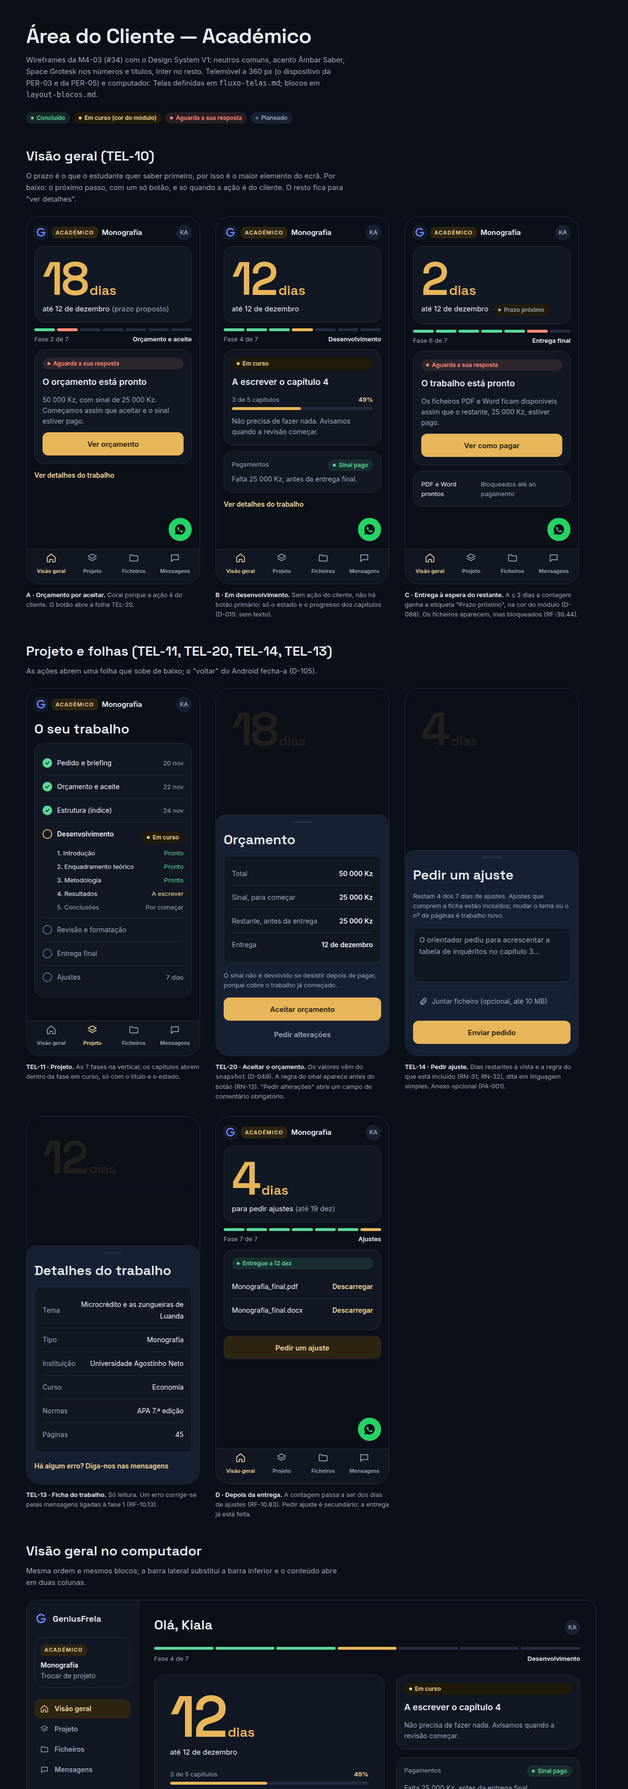
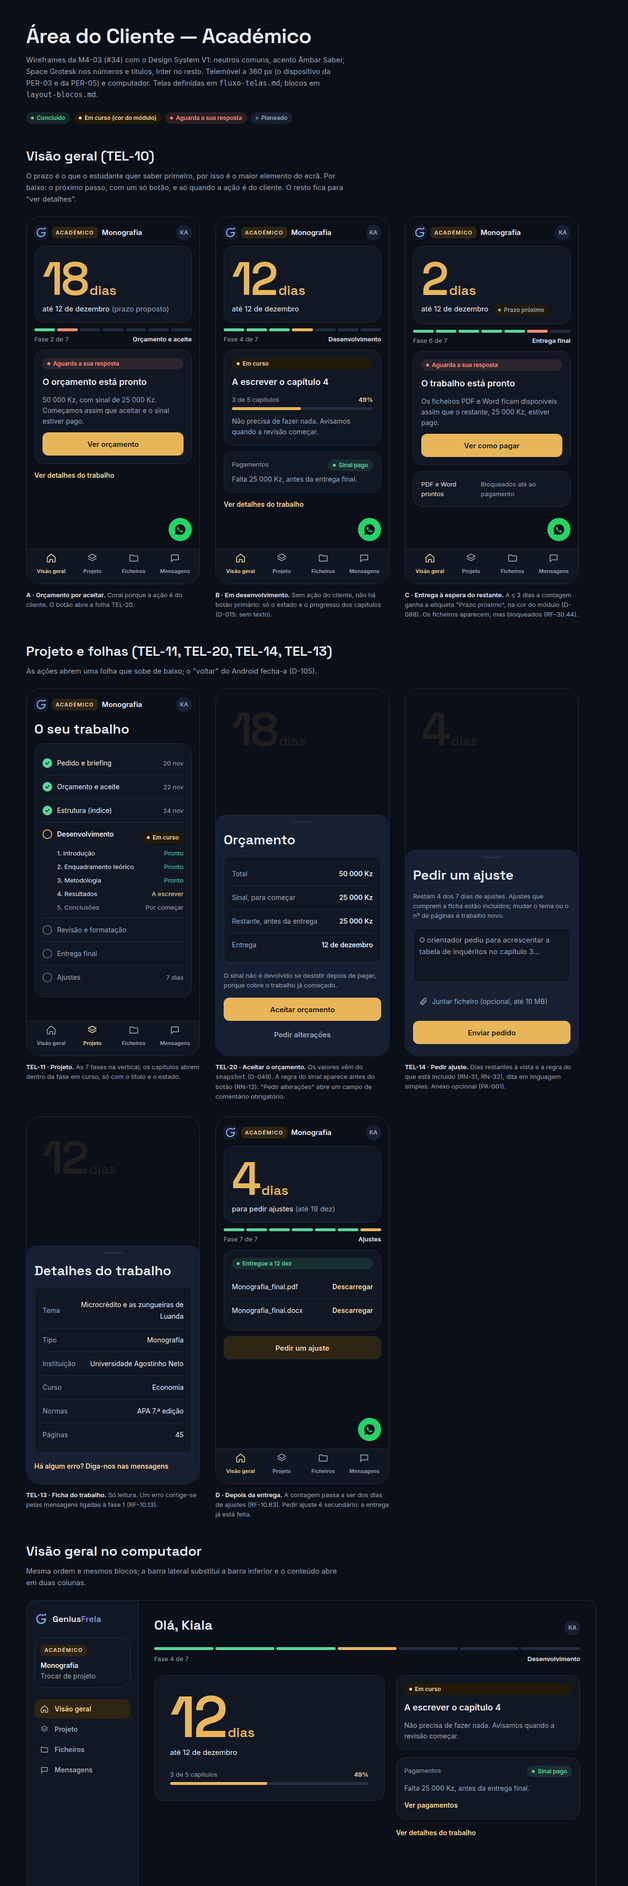
docs(ux-ui): wireframe dos blocos comuns e do link mágico (M4-05)
Entrar pelo link, link inválido, gerar link no admin, pagamentos,
ficheiros, enviar ficheiros, mensagens fora de horário e seletor de
projetos, com o Design System V1. Tokens derivados da marca (D-111).
Correção do logótipo nos três wireframes, que parecia o G da Google
(D-112); imagens refeitas.

diff --git a/docs/04-ux-ui/wireframes/blocos-comuns.html b/docs/04-ux-ui/wireframes/blocos-comuns.html
@@ -1,0 +1,124 @@
+<!doctype html>
+<html lang="pt">
+<head>
+  <meta charset="utf-8" />
+  <meta name="viewport" content="width=device-width, initial-scale=1" />
+  <title>Wireframe — Blocos comuns e link mágico · GeniusFrela</title>
+  <link rel="stylesheet" href="ds.css" />
+</head>
+<body data-service="brand">
+<svg width="0" height="0" style="position:absolute" aria-hidden="true">
+  <symbol id="i-home" viewBox="0 0 24 24" fill="none" stroke="currentColor" stroke-width="1.8" stroke-linecap="round" stroke-linejoin="round"><path d="M3 10.5 12 3l9 7.5V20a1 1 0 0 1-1 1h-5v-6H9v6H4a1 1 0 0 1-1-1z"/></symbol>
+  <symbol id="i-layers" viewBox="0 0 24 24" fill="none" stroke="currentColor" stroke-width="1.8" stroke-linecap="round" stroke-linejoin="round"><path d="m12 3 9 5-9 5-9-5z"/><path d="m3 13 9 5 9-5"/></symbol>
+  <symbol id="i-folder" viewBox="0 0 24 24" fill="none" stroke="currentColor" stroke-width="1.8" stroke-linecap="round" stroke-linejoin="round"><path d="M3 6a1 1 0 0 1 1-1h5l2 2h9a1 1 0 0 1 1 1v10a1 1 0 0 1-1 1H4a1 1 0 0 1-1-1z"/></symbol>
+  <symbol id="i-msg" viewBox="0 0 24 24" fill="none" stroke="currentColor" stroke-width="1.8" stroke-linecap="round" stroke-linejoin="round"><path d="M4 5h16v11H8l-4 4z"/></symbol>
+  <symbol id="i-check" viewBox="0 0 24 24" fill="none" stroke="currentColor" stroke-width="3" stroke-linecap="round" stroke-linejoin="round"><path d="m5 12 5 5 9-10"/></symbol>
+  <symbol id="i-clip" viewBox="0 0 24 24" fill="none" stroke="currentColor" stroke-width="1.8" stroke-linecap="round" stroke-linejoin="round"><path d="m20 11-8.5 8.5a5 5 0 0 1-7-7L13 4a3.5 3.5 0 0 1 5 5l-8.5 8.5a2 2 0 0 1-3-3L14 7"/></symbol>
+  <symbol id="i-wa" viewBox="0 0 24 24" fill="currentColor"><path d="M12 2a10 10 0 0 0-8.6 15.1L2 22l5-1.3A10 10 0 1 0 12 2zm5.3 14.1c-.2.6-1.3 1.2-1.8 1.2s-1 .3-3.3-.7a11.3 11.3 0 0 1-4.4-3.9c-.3-.5-1.1-1.5-1.1-2.9s.7-2 1-2.3a1 1 0 0 1 .7-.3h.5c.2 0 .4 0 .6.5l.8 2c.1.2.1.4 0 .6l-.4.6-.4.4c-.1.2-.3.3-.1.6a8 8 0 0 0 1.5 1.8 7 7 0 0 0 2.1 1.3c.3.1.5.1.6-.1l.9-1.1c.2-.3.4-.2.6-.1l1.9.9c.3.1.4.2.5.3a2 2 0 0 1-.1 1.2z"/></symbol>
+  <symbol id="i-g" viewBox="0 0 24 24" fill="none"><defs><linearGradient id="g" x1="0" y1="0" x2="1" y2="1"><stop offset="0" stop-color="#8B7CF6"/><stop offset=".55" stop-color="#7AA6F2"/><stop offset="1" stop-color="#5BC8E6"/></linearGradient></defs><path d="M16.2 5.6A7.6 7.6 0 1 0 19.6 12H13.2" stroke="url(#g)" stroke-width="2.4" stroke-linecap="round"/><circle cx="19.2" cy="4.2" r="1.7" fill="#5BC8E6"/></symbol>
+  <symbol id="i-lock" viewBox="0 0 24 24" fill="none" stroke="currentColor" stroke-width="1.8" stroke-linecap="round"><rect x="5" y="11" width="14" height="9" rx="2"/><path d="M8 11V8a4 4 0 0 1 8 0v3"/></symbol>
+  <symbol id="i-copy" viewBox="0 0 24 24" fill="none" stroke="currentColor" stroke-width="1.8" stroke-linecap="round"><rect x="8" y="8" width="12" height="12" rx="2"/><path d="M16 8V5a1 1 0 0 0-1-1H5a1 1 0 0 0-1 1v10a1 1 0 0 0 1 1h3"/></symbol>
+  <symbol id="i-mail" viewBox="0 0 24 24" fill="none" stroke="currentColor" stroke-width="1.8" stroke-linecap="round"><rect x="3" y="5" width="18" height="14" rx="2"/><path d="m3 7 9 6 9-6"/></symbol>
+  <symbol id="i-send" viewBox="0 0 24 24" fill="none" stroke="currentColor" stroke-width="1.8" stroke-linecap="round" stroke-linejoin="round"><path d="M21 3 10 14M21 3l-7 18-4-7-7-4z"/></symbol>
+  <symbol id="i-file" viewBox="0 0 24 24" fill="none" stroke="currentColor" stroke-width="1.8" stroke-linecap="round" stroke-linejoin="round"><path d="M14 3H6a1 1 0 0 0-1 1v16a1 1 0 0 0 1 1h12a1 1 0 0 0 1-1V8z"/><path d="M14 3v5h5"/></symbol>
+  <symbol id="i-clock" viewBox="0 0 24 24" fill="none" stroke="currentColor" stroke-width="1.8" stroke-linecap="round"><circle cx="12" cy="12" r="9"/><path d="M12 7v5l3 2"/></symbol>
+</svg>
+
+<main class="doc">
+  <h1>Blocos comuns e link mágico</h1>
+  <p>Wireframes da M4-05 (#36) com o Design System V1. A entrada pelo link e o admin usam a marca (violeta), porque ainda não há serviço; os blocos comuns mudam de cor com o serviço: aqui aparecem em Âmbar (Académico) e Lilás (Design). Telas em <code>fluxo-telas.md</code>.</p>
+
+  <h2>Entrar pelo link mágico (TEL-03, TEL-04)</h2>
+  <p>Abrir o link não gasta nada: só o botão "Entrar" usa o link (D-068). Assim, a pré-visualização do WhatsApp não o estraga.</p>
+  <div class="row">
+    <figure class="shot"><div class="phone" data-service="brand"><div class="scroll" style="justify-content:space-between;padding-bottom:var(--s5)">
+<div style="display:flex;flex-direction:column;align-items:center;gap:12px;margin-top:72px"><svg width="64" height="64"><use href="#i-g"/></svg><b style="font:600 22px/1 var(--font-display);letter-spacing:-.01em">Genius<span class="wm-frela">Frela</span></b></div>
+<div class="stack" style="gap:var(--s4)">
+<h3 style="font:600 28px/36px var(--font-display)">Olá, Teresa</h3>
+<p class="muted">Este link abre o seu projeto <b style="color:var(--n-ink)">Convite do casamento</b>.</p>
+<a class="btn primary block" href="#">Entrar no meu projeto</a>
+<p class="small muted" style="text-align:center">O link funciona uma vez e é válido até amanhã às 14:30.</p>
+</div></div></div><figcaption><b>TEL-03 · Entrar.</b> Logótipo vertical, o nome do cliente e do projeto, um só botão. A validade fica dita em linguagem simples.</figcaption></figure>
+    <figure class="shot"><div class="phone" data-service="brand"><div class="scroll" style="justify-content:space-between;padding-bottom:var(--s5)">
+<div style="display:flex;flex-direction:column;align-items:center;gap:12px;margin-top:72px"><svg width="64" height="64"><use href="#i-g"/></svg><b style="font:600 22px/1 var(--font-display);letter-spacing:-.01em">Genius<span class="wm-frela">Frela</span></b></div>
+<div class="stack" style="gap:var(--s4)">
+<h3 style="font:600 28px/36px var(--font-display)">Este link já não é válido</h3>
+<p class="muted">Cada link funciona uma vez e dura 24 horas. Peça um novo e enviamos já.</p>
+<a class="btn block" href="#" style="background:var(--whatsapp);color:var(--n-night)"><svg width="18" height="18" style=""><use href="#i-wa"/></svg>Pedir um novo link</a>
+<a class="btn quiet" href="#" style="align-self:center">Entrar com email e senha</a>
+</div></div></div><figcaption><b>TEL-04 · Link inválido.</b> Diz porquê e dá a saída mais rápida: pedir outro no WhatsApp (RF-30.51). A senha fica como alternativa (RF-30.55).</figcaption></figure>
+    <figure class="shot"><div class="phone" data-service="brand"><div class="scroll" style="opacity:.3"><div class="card" style="height:220px"></div><div class="card" style="height:160px"></div></div>
+<div class="scrim"></div>
+<div class="sheet" role="dialog" aria-label="Gerar link"><span class="handle"></span><h3>Link para Teresa</h3>
+<p class="small muted">Abre o projeto <b style="color:var(--n-ink)">Convite do casamento</b>. Funciona uma vez, até amanhã às 14:30. O link anterior deixa de funcionar.</p>
+<div class="sub small" style="font-family:ui-monospace,monospace;color:var(--n-ink-2);overflow:hidden;white-space:nowrap;text-overflow:ellipsis">joao-pereira.dev/cliente/entrar?t=8f3c…a91e</div>
+<a class="btn block" href="#" style="background:var(--whatsapp);color:var(--n-night)"><svg width="18" height="18" style=""><use href="#i-wa"/></svg>Abrir no WhatsApp</a>
+<div style="display:flex;gap:var(--s2)"><a class="btn secondary" href="#" style="flex:1"><svg width="18" height="18" style=""><use href="#i-copy"/></svg>Copiar</a><a class="btn secondary" href="#" style="flex:1"><svg width="18" height="18" style=""><use href="#i-mail"/></svg>Email</a></div>
+<p class="small muted" style="text-align:center">1 de 5 links nesta hora</p></div></div><figcaption><b>TEL-57 · Admin, gerar link.</b> WhatsApp em primeiro, porque é o canal principal (D-011); Copiar e Email ao lado. Avisa que o link anterior deixa de funcionar e mostra o limite de 5 por hora.</figcaption></figure>
+  </div>
+
+  <h2>Pagamentos, ficheiros e envio (TEL-21, TEL-22, TEL-23)</h2>
+  <p>O cliente vê o que pagou e o que falta, os ficheiros por grupo e o progresso de cada envio. Nada se paga nem se descarrega sem regras.</p>
+  <div class="row">
+    <figure class="shot"><div class="phone" data-service="academic"><div class="scroll" style="opacity:.35"><div class="topbar"><div class="project"><svg class="logo" width="28" height="28"><use href="#i-g"/></svg><span class="chip-service">Académico</span><span class="project-name">Monografia</span></div><span class="avatar">KA</span></div><div class="card countdown"><div><span class="num">2</span><span class="unit">dias</span></div></div></div>
+<div class="scrim"></div>
+<div class="sheet" role="dialog" aria-label="Pagamentos"><span class="handle"></span><h3>Pagamentos</h3>
+<div class="split"><div><p class="small muted">Já pagou</p><b style="font:600 28px/36px var(--font-display)">25 000 Kz</b></div><div style="text-align:right"><p class="small muted">Falta</p><b style="font:600 28px/36px var(--font-display);color:var(--m-primary)">25 000 Kz</b></div></div>
+<div class="bar"><i style="width:50%"></i></div>
+<div class="sub list">
+<div><span>Sinal<br/><span class="small muted">pago a 22 nov</span></span><span class="state done">Pago</span></div>
+<div><span>Restante<br/><span class="small muted">até 10 dez</span></span><span class="state action">Por pagar</span></div>
+</div>
+<p class="small muted">O pagamento é feito fora do portal. Envie o comprovativo pelo WhatsApp e marcamos como pago assim que confirmarmos.</p>
+<a class="btn primary block" href="#">Enviar comprovativo no WhatsApp</a></div></div><figcaption><b>TEL-21 · Pagamentos.</b> Só leitura (D-009): já pagou, falta, e o estado de cada pagamento. O próximo passo é enviar o comprovativo pelo WhatsApp.</figcaption></figure>
+    <figure class="shot"><div class="phone" data-service="design"><div class="scroll"><div class="topbar"><div class="project"><svg class="logo" width="28" height="28"><use href="#i-g"/></svg><span class="chip-service">Design</span><span class="project-name">Convite do casamento</span></div><span class="avatar">TE</span></div>
+<h3 style="font:600 28px/36px var(--font-display);margin-top:4px">Ficheiros</h3>
+<div class="card stack"><div class="split"><b>Provas</b><span class="small muted">2 versões</span></div>
+<div class="list"><div><span style="display:flex;gap:10px;align-items:center"><svg width="18" height="18" style=""><use href="#i-file"/></svg>V2 · prova.jpg</span><span class="state now">Atual</span></div>
+<div><span style="display:flex;gap:10px;align-items:center" class="muted"><svg width="18" height="18" style=""><use href="#i-file"/></svg>V1 · prova.jpg</span><span class="small muted">25 nov</span></div></div></div>
+<div class="card stack"><div class="split"><b>Os seus ficheiros</b><a class="link" href="#">Enviar</a></div>
+<div class="list"><div><span style="display:flex;gap:10px;align-items:center"><svg width="18" height="18" style=""><use href="#i-file"/></svg>fotos_noivos.jpg</span><span class="small muted">3,2 MB</span></div>
+<div><span style="display:flex;gap:10px;align-items:center"><svg width="18" height="18" style=""><use href="#i-file"/></svg>textos_convite.docx</span><span class="small muted">24 KB</span></div></div></div>
+<div class="card stack"><b>Ficheiros finais</b>
+<div class="notice"><svg width="18" height="18" style="flex:none;margin-top:1px"><use href="#i-lock"/></svg><span>Ficam disponíveis quando a peça estiver pronta para levantar.</span></div></div>
+</div><nav class="bottomnav" aria-label="Área do cliente"><a href="#"><svg><use href="#i-home"/></svg>Visão geral</a><a href="#"><svg><use href="#i-layers"/></svg>Projeto</a><a href="#" aria-current="page"><svg><use href="#i-folder"/></svg>Ficheiros</a><a href="#"><svg><use href="#i-msg"/></svg>Mensagens</a></nav></div><figcaption><b>TEL-22 · Ficheiros.</b> Três grupos: provas (com a atual marcada), os ficheiros do cliente e os finais, com o cadeado e o motivo (RF-30.44).</figcaption></figure>
+    <figure class="shot"><div class="phone" data-service="academic"><div class="scroll" style="opacity:.35"><div class="topbar"><div class="project"><svg class="logo" width="28" height="28"><use href="#i-g"/></svg><span class="chip-service">Académico</span><span class="project-name">Monografia</span></div><span class="avatar">KA</span></div></div>
+<div class="scrim"></div>
+<div class="sheet" role="dialog" aria-label="Enviar ficheiros"><span class="handle"></span><h3>Enviar ficheiros</h3>
+<p class="small muted">Enunciado, normas da instituição ou bibliografia. Imagens, PDF ou Word, até 10 MB cada.</p>
+<div class="stack" style="gap:var(--s3)">
+<div class="sub"><div class="split small"><span>normas_UAN.pdf</span><span class="muted">1,1 MB</span></div><div class="prog"><i style="width:100%;background:var(--state-done)"></i></div></div>
+<div class="sub"><div class="split small"><span>enunciado.docx</span><span class="muted">64%</span></div><div class="prog"><i style="width:64%"></i></div></div>
+<div class="sub" style="border-color:rgba(255,138,122,.45)"><div class="split small"><span>tese_completa.pdf</span><span class="muted">14 MB</span></div><p class="err" style="margin-top:4px">Passa dos 10 MB. Envie uma versão mais leve ou só os capítulos que precisamos.</p></div>
+</div>
+<div class="attach"><svg width="18" height="18" style=""><use href="#i-clip"/></svg>Escolher mais ficheiros</div>
+<p class="small muted" style="text-align:center">3 de 10 ficheiros nesta fase</p></div></div><figcaption><b>TEL-23 · Enviar ficheiros.</b> Progresso por ficheiro e um erro claro, com o que fazer, quando passa dos 10 MB (RNF-105, RF-30.42). Contador de 10 por fase.</figcaption></figure>
+  </div>
+
+  <h2>Mensagens e projetos (TEL-24, TEL-05)</h2>
+  <p>As mensagens aceitam-se a qualquer hora; fora do horário, o cliente sabe quando terá resposta.</p>
+  <div class="row">
+    <figure class="shot"><div class="phone" data-service="design"><div class="scroll" style="padding-bottom:150px"><div class="topbar"><div class="project"><svg class="logo" width="28" height="28"><use href="#i-g"/></svg><span class="chip-service">Design</span><span class="project-name">Convite do casamento</span></div><span class="avatar">TE</span></div>
+<h3 style="font:600 28px/36px var(--font-display);margin-top:4px">Mensagens</h3>
+<span class="small muted" style="align-self:center">Ontem</span>
+<div class="bubble them">A V2 já está no portal, com os nomes maiores e as folhas em dourado.</div>
+<span class="small muted" style="align-self:center">Hoje, 22:10</span>
+<div class="bubble me">Obrigada! A data tem de ser domingo, 14.</div>
+<div class="notice"><svg width="18" height="18" style="flex:none;margin-top:1px"><use href="#i-clock"/></svg><span>Entraremos em contacto assim que o horário de abertura estiver disponível. Atendemos todos os dias, das 08h às 20h.</span></div>
+</div>
+<div style="position:absolute;left:0;right:0;bottom:72px;padding:var(--s3) var(--s4);background:var(--n-night);border-top:1px solid var(--n-border);display:flex;gap:var(--s2)">
+<div class="field" style="min-height:48px;padding:12px">Escreva uma mensagem</div>
+<a class="btn primary" href="#" aria-label="Enviar" style="width:48px;padding:0;flex:none"><svg width="20" height="20" style=""><use href="#i-send"/></svg></a></div>
+<nav class="bottomnav" aria-label="Área do cliente"><a href="#"><svg><use href="#i-home"/></svg>Visão geral</a><a href="#"><svg><use href="#i-layers"/></svg>Projeto</a><a href="#"><svg><use href="#i-folder"/></svg>Ficheiros</a><a href="#" aria-current="page"><svg><use href="#i-msg"/></svg>Mensagens</a></nav></div><figcaption><b>TEL-24 · Mensagens fora de horário.</b> O aviso usa o texto da RN-52 e o horário (D-036). Não bloqueia o envio.</figcaption></figure>
+    <figure class="shot"><div class="phone" data-service="design"><div class="scroll" style="opacity:.35"><div class="topbar"><div class="project"><svg class="logo" width="28" height="28"><use href="#i-g"/></svg><span class="chip-service">Design</span><span class="project-name">Convite do casamento</span></div><span class="avatar">TE</span></div></div>
+<div class="scrim"></div>
+<div class="sheet" role="dialog" aria-label="Os seus projetos"><span class="handle"></span><h3>Os seus projetos</h3>
+<div class="stack" style="gap:var(--s2)">
+<a href="#" class="sub split" data-service="design" style="text-decoration:none;color:inherit;border-color:var(--m-primary)"><span class="stack" style="gap:4px"><span class="chip-service" style="align-self:flex-start">Design</span><b>Convite do casamento</b><span class="small muted">Revisões</span></span><span class="state action">Ação sua</span></a>
+<a href="#" class="sub split" data-service="design" style="text-decoration:none;color:inherit"><span class="stack" style="gap:4px"><span class="chip-service" style="align-self:flex-start">Design</span><b>Lona da festa</b><span class="small muted">Produção</span></span><span class="state now">Em curso</span></a>
+<a href="#" class="sub split" data-service="academic" style="text-decoration:none;color:inherit"><span class="stack" style="gap:4px"><span class="chip-service" style="align-self:flex-start">Académico</span><b>Relatório de estágio</b><span class="small muted">Desenvolvimento</span></span><span class="state now">Em curso</span></a>
+</div></div></div><figcaption><b>TEL-05 · Os seus projetos.</b> Cada projeto com a cor do seu serviço e o estado: o cliente vê logo onde é a sua vez (RF-30.13, D-019).</figcaption></figure>
+  </div>
+</main>
+</body>
+</html>

diff --git a/docs/04-ux-ui/wireframes/design.html b/docs/04-ux-ui/wireframes/design.html
@@ -24,7 +24,7 @@
   <symbol id="i-check" viewBox="0 0 24 24" fill="none" stroke="currentColor" stroke-width="3" stroke-linecap="round" stroke-linejoin="round"><path d="m5 12 5 5 9-10"/></symbol>
   <symbol id="i-clip" viewBox="0 0 24 24" fill="none" stroke="currentColor" stroke-width="1.8" stroke-linecap="round" stroke-linejoin="round"><path d="m20 11-8.5 8.5a5 5 0 0 1-7-7L13 4a3.5 3.5 0 0 1 5 5l-8.5 8.5a2 2 0 0 1-3-3L14 7"/></symbol>
   <symbol id="i-wa" viewBox="0 0 24 24" fill="currentColor"><path d="M12 2a10 10 0 0 0-8.6 15.1L2 22l5-1.3A10 10 0 1 0 12 2zm5.3 14.1c-.2.6-1.3 1.2-1.8 1.2s-1 .3-3.3-.7a11.3 11.3 0 0 1-4.4-3.9c-.3-.5-1.1-1.5-1.1-2.9s.7-2 1-2.3a1 1 0 0 1 .7-.3h.5c.2 0 .4 0 .6.5l.8 2c.1.2.1.4 0 .6l-.4.6-.4.4c-.1.2-.3.3-.1.6a8 8 0 0 0 1.5 1.8 7 7 0 0 0 2.1 1.3c.3.1.5.1.6-.1l.9-1.1c.2-.3.4-.2.6-.1l1.9.9c.3.1.4.2.5.3a2 2 0 0 1-.1 1.2z"/></symbol>
-  <symbol id="i-g" viewBox="0 0 24 24" fill="none" stroke="url(#g)" stroke-width="2.6" stroke-linecap="round"><defs><linearGradient id="g" x1="0" y1="0" x2="1" y2="1"><stop offset="0" stop-color="#8B7CF6"/><stop offset="1" stop-color="#4C8DFF"/></linearGradient></defs><path d="M17 6.5A7 7 0 1 0 19 12h-6"/></symbol>
+  <symbol id="i-g" viewBox="0 0 24 24" fill="none"><defs><linearGradient id="g" x1="0" y1="0" x2="1" y2="1"><stop offset="0" stop-color="#8B7CF6"/><stop offset=".55" stop-color="#7AA6F2"/><stop offset="1" stop-color="#5BC8E6"/></linearGradient></defs><path d="M16.2 5.6A7.6 7.6 0 1 0 19.6 12H13.2" stroke="url(#g)" stroke-width="2.4" stroke-linecap="round"/><circle cx="19.2" cy="4.2" r="1.7" fill="#5BC8E6"/></symbol>
 </svg>
 
 <svg width="0" height="0" style="position:absolute" aria-hidden="true">
@@ -161,7 +161,7 @@
   <h2>Visão geral no computador</h2>
   <p>A prova à esquerda, em grande; à direita, a decisão, as outras versões e os pagamentos.</p>
   <div class="desktop"><aside class="side">
-<div style="display:flex;align-items:center;gap:10px"><svg width="28" height="28"><use href="#i-g"/></svg><b style="font:600 18px/1 var(--font-display)">GeniusFrela</b></div>
+<div style="display:flex;align-items:center;gap:10px"><svg width="28" height="28"><use href="#i-g"/></svg><b style="font:600 18px/1 var(--font-display)">Genius<span class="wm-frela">Frela</span></b></div>
 <div class="card" style="padding:12px"><span class="chip-service">Design</span><p style="color:var(--n-ink);font-weight:600;margin-top:8px">Convite do casamento</p><p class="small muted">Trocar de projeto</p></div>
 <nav aria-label="Área do cliente"><a href="#" aria-current="page"><svg><use href="#i-home"/></svg>Visão geral</a><a href="#"><svg><use href="#i-layers"/></svg>Projeto</a><a href="#"><svg><use href="#i-folder"/></svg>Ficheiros</a><a href="#"><svg><use href="#i-msg"/></svg>Mensagens</a></nav>
 <a class="btn whatsapp" href="#" style="margin-top:auto"><svg width="18" height="18"><use href="#i-wa"/></svg>Falar no WhatsApp</a></aside>

diff --git a/docs/04-ux-ui/wireframes/academico.html b/docs/04-ux-ui/wireframes/academico.html
@@ -15,7 +15,7 @@
   <symbol id="i-check" viewBox="0 0 24 24" fill="none" stroke="currentColor" stroke-width="3" stroke-linecap="round" stroke-linejoin="round"><path d="m5 12 5 5 9-10"/></symbol>
   <symbol id="i-clip" viewBox="0 0 24 24" fill="none" stroke="currentColor" stroke-width="1.8" stroke-linecap="round" stroke-linejoin="round"><path d="m20 11-8.5 8.5a5 5 0 0 1-7-7L13 4a3.5 3.5 0 0 1 5 5l-8.5 8.5a2 2 0 0 1-3-3L14 7"/></symbol>
   <symbol id="i-wa" viewBox="0 0 24 24" fill="currentColor"><path d="M12 2a10 10 0 0 0-8.6 15.1L2 22l5-1.3A10 10 0 1 0 12 2zm5.3 14.1c-.2.6-1.3 1.2-1.8 1.2s-1 .3-3.3-.7a11.3 11.3 0 0 1-4.4-3.9c-.3-.5-1.1-1.5-1.1-2.9s.7-2 1-2.3a1 1 0 0 1 .7-.3h.5c.2 0 .4 0 .6.5l.8 2c.1.2.1.4 0 .6l-.4.6-.4.4c-.1.2-.3.3-.1.6a8 8 0 0 0 1.5 1.8 7 7 0 0 0 2.1 1.3c.3.1.5.1.6-.1l.9-1.1c.2-.3.4-.2.6-.1l1.9.9c.3.1.4.2.5.3a2 2 0 0 1-.1 1.2z"/></symbol>
-  <symbol id="i-g" viewBox="0 0 24 24" fill="none" stroke="url(#g)" stroke-width="2.6" stroke-linecap="round"><defs><linearGradient id="g" x1="0" y1="0" x2="1" y2="1"><stop offset="0" stop-color="#8B7CF6"/><stop offset="1" stop-color="#4C8DFF"/></linearGradient></defs><path d="M17 6.5A7 7 0 1 0 19 12h-6"/></symbol>
+  <symbol id="i-g" viewBox="0 0 24 24" fill="none"><defs><linearGradient id="g" x1="0" y1="0" x2="1" y2="1"><stop offset="0" stop-color="#8B7CF6"/><stop offset=".55" stop-color="#7AA6F2"/><stop offset="1" stop-color="#5BC8E6"/></linearGradient></defs><path d="M16.2 5.6A7.6 7.6 0 1 0 19.6 12H13.2" stroke="url(#g)" stroke-width="2.4" stroke-linecap="round"/><circle cx="19.2" cy="4.2" r="1.7" fill="#5BC8E6"/></symbol>
 </svg>
 
 <main class="doc">
@@ -304,7 +304,7 @@
   <p>Mesma ordem e mesmos blocos; a barra lateral substitui a barra inferior e o conteúdo abre em duas colunas.</p>
   <div class="desktop">
     <aside class="side">
-      <div style="display:flex;align-items:center;gap:10px"><svg width="28" height="28"><use href="#i-g"/></svg><b style="font:600 18px/1 var(--font-display)">GeniusFrela</b></div>
+      <div style="display:flex;align-items:center;gap:10px"><svg width="28" height="28"><use href="#i-g"/></svg><b style="font:600 18px/1 var(--font-display)">Genius<span class="wm-frela">Frela</span></b></div>
       <div class="card" style="padding:12px">
         <span class="chip-service">Académico</span>
         <p style="color:var(--n-ink);font-weight:600;margin-top:8px">Monografia</p>

diff --git a/docs/04-ux-ui/wireframes/ds.css b/docs/04-ux-ui/wireframes/ds.css
@@ -30,6 +30,8 @@
 [data-service="development"] { --m-primary: #4c8dff; --m-soft: #9cc0ff; --m-tint: #13213d; --m-on: #0a1530; }
 [data-service="design"]      { --m-primary: #a78bfa; --m-soft: #d2c4ff; --m-tint: #231b3f; --m-on: #170f2e; }
 [data-service="academic"]    { --m-primary: #e8b65a; --m-soft: #f5d79a; --m-tint: #2e2412; --m-on: #221a08; }
+/* marca: login, link mágico, admin (D-091). Só a primária vem do DS V1; suave/tinta/sobre derivados (D-111, confirmar no G2) */
+[data-service="brand"]       { --m-primary: #8b7cf6; --m-soft: #c9c2fb; --m-tint: #1c1838; --m-on: #0b0f17; }
 
 * { box-sizing: border-box; margin: 0; }
 body {
@@ -160,6 +162,15 @@ body {
 .check .box.on { background: var(--m-primary); border-color: var(--m-primary); }
 
 /* ---------- computador ---------- */
+/* logótipo: "Frela" no gradiente da marca (ficha R2) */
+.wm-frela { background: linear-gradient(90deg, #8b7cf6, #7aa6f2 55%, #5bc8e6); -webkit-background-clip: text; background-clip: text; color: transparent; }
+.err { color: var(--state-action); font-size: 13px; line-height: 20px; }
+.prog { height: 4px; border-radius: var(--r-pill); background: var(--n-border); overflow: hidden; margin-top: 6px; }
+.prog i { display: block; height: 100%; background: var(--m-primary); }
+.bubble { max-width: 82%; padding: var(--s3) var(--s4); border-radius: var(--r-lg); font-size: 14px; line-height: 22px; }
+.bubble.me { align-self: flex-end; background: var(--m-tint); color: var(--n-ink); border-bottom-right-radius: var(--r-sm); }
+.bubble.them { align-self: flex-start; background: var(--n-surface); border: 1px solid var(--n-border); border-bottom-left-radius: var(--r-sm); }
+.notice { display: flex; gap: var(--s3); align-items: flex-start; padding: var(--s3) var(--s4); border-radius: var(--r-md); background: var(--n-surface); border: 1px solid var(--n-border); font-size: 13px; line-height: 20px; color: var(--n-ink-2); }
 .desktop { width: 100%; max-width: 1180px; min-height: 720px; display: grid; grid-template-columns: 232px 1fr; border: 1px solid var(--n-border); border-radius: var(--r-lg); overflow: hidden; background: var(--n-night); }
 .side { background: var(--n-surface); border-right: 1px solid var(--n-border); padding: var(--s5) var(--s4); display: flex; flex-direction: column; gap: var(--s5); }
 .side nav { display: flex; flex-direction: column; gap: 2px; }

diff --git a/docs/04-ux-ui/wireframes/blocos-comuns.md b/docs/04-ux-ui/wireframes/blocos-comuns.md
@@ -1,0 +1,33 @@
+# Wireframe — Blocos comuns e link mágico
+> Projeto: GeniusFrela — Área do Cliente multi-serviço · Tarefa: [M4-05] · Issue: #36 · Versão: 1.0 · Data: 2026-11-24
+> Depende de: **Design System V1** (ADR-004), [`ds.css`](ds.css), `fluxo-telas.md` (TEL-03, 04, 05, 21, 22, 23, 24, 57), ADR-002, ADR-003 · Decisões usadas: D-009, D-011, D-019, D-023, D-032, D-036, D-068, D-091, D-111, D-112
+
+**Abrir:** [`blocos-comuns.html`](blocos-comuns.html). **Imagem:** [`img/blocos-comuns.png`](img/blocos-comuns.png).
+
+## O que está desenhado
+| TEL | Ecrã | Cor |
+|---|---|---|
+| TEL-03 | Entrar pelo link: logótipo vertical, "Olá, Teresa", projeto, **Entrar no meu projeto**, validade | marca |
+| TEL-04 | Link inválido: porquê + **Pedir um novo link** (WhatsApp) + entrar com senha | marca |
+| TEL-57 | Admin, gerar link: URL, **Abrir no WhatsApp**, Copiar, Email, aviso do link anterior, 1 de 5 nesta hora | marca |
+| TEL-21 | Pagamentos: já pagou / falta, barra, sinal e restante com estado, enviar comprovativo no WhatsApp | Âmbar (Académico) |
+| TEL-22 | Ficheiros: provas (atual marcada), os seus ficheiros, finais com cadeado e motivo | Lilás (Design) |
+| TEL-23 | Enviar ficheiros: progresso por ficheiro, erro de 10 MB com o que fazer, 3 de 10 nesta fase | Âmbar |
+| TEL-24 | Mensagens fora de horário: aviso com o texto da RN-52 e o horário | Lilás |
+| TEL-05 | Os seus projetos: cada um com o chip do seu serviço e o estado ("Ação sua", "Em curso") | por projeto |
+
+## Decisões de desenho
+1. **A entrada é um ecrã calmo com um só botão**: o logótipo em cima, a decisão em baixo, ao alcance do polegar. Abrir o link não o gasta; só o botão (D-068).
+2. **O link inválido não é um erro, é uma saída**: o botão verde do WhatsApp pede um link novo num toque (RF-30.51).
+3. **No admin, o WhatsApp é a ação principal** (D-011), em verde WhatsApp com texto escuro; Copiar e Email são secundários.
+4. **Pagamentos só de leitura** (D-009): o que falta aparece na cor do módulo; o comprovativo segue pelo WhatsApp.
+5. **Os ficheiros bloqueados dizem porquê** e quando ficam disponíveis (RF-30.44).
+6. **Os erros de envio explicam o que fazer** ("Envie uma versão mais leve ou só os capítulos que precisamos"), sem pedir desculpa.
+7. **O aviso de fora de horário não bloqueia** o envio (RN-52).
+8. **Tokens da marca** (D-111): o DS V1 só define a primária violeta `#8B7CF6`; derivei suave `#C9C2FB`, tinta `#1C1838` e sobre `#0B0F17` (contraste: 5,8 no botão e 10,2 no secundário).
+
+## Correção feita nos três wireframes (D-112)
+A revisão em captura mostrou que o ícone usado como logótipo parecia o "G" da Google e não tinha o ponto do logótipo GeniusFrela. Foi substituído pelo "G" em arco com o ponto e o gradiente violeta → azul → ciano, e "Frela" passou a ter o gradiente no nome, como na ficha R2. Corrigido em `academico.html`, `design.html` e `blocos-comuns.html`, com as imagens refeitas. Na M5 usa-se o `components/BrandMark.tsx`, que já existe.
+
+## Para o G2
+Confirmar: os tokens derivados da marca; o verde do WhatsApp como botão principal no admin e no link inválido; o texto da validade do link.

diff --git a/ultima_atualizacao.md b/ultima_atualizacao.md
@@ -5,8 +5,8 @@
 ## 📍 Estado actual
 | | Tarefa | Issue | Entregável |
 |---|---|---|---|
-| ✅ Última feita | M4-04 Desenhar o wireframe da Área do Cliente Design | #35 | `docs/04-ux-ui/wireframes/design.html` |
-| ⏭ Próxima | M4-05 Desenhar os blocos comuns e o ecrã do link mágico | #36 | `docs/04-ux-ui/wireframes/blocos-comuns.html` |
+| ✅ Última feita | M4-05 Desenhar os blocos comuns e o ecrã do link mágico | #36 | `docs/04-ux-ui/wireframes/blocos-comuns.html` |
+| ⏭ Próxima | M4-06 Validar os tokens de acento por serviço (já no ADR-004) → M4-07 G2 | #37, #38 | `docs/00-gestao/actas/G2-design.md` |
 | ❓ Perguntas em aberto | Datas das milestones M2–M10 · R-01 Vercel Hobby aceite (rever no fim de cada milestone) · R-06 pôr OTP a 86 400 s no painel · PNG dos diagramas por gerar (contexto, 3 MER, 7 estados, 2 sequências): falta autorizar o `mermaid-cli` | | |
 | 🎨 Referência de design | **Design System V1** — `docs/references/designer_system/Design System — GeniusFrela@2x.png` (todas as tarefas de design, D-086) | | |
 <!-- ESTADO:FIM -->
@@ -58,3 +58,4 @@
 | 2026-11-24 | M4-02 | #33 | 35 telas, variações por serviço, 5 fluxos; coluna TEL da rastreabilidade gerada (D-105, D-106) | `docs/04-ux-ui/fluxo-telas.md`, `rastreabilidade.md`, `user-stories.md` |
 | 2026-11-24 | M4-03 | #34 | Wireframe Académico em HTML com o DS V1 (9 ecrãs) + `ds.css` + captura (Q-073, D-107, D-108) | `docs/04-ux-ui/wireframes/academico.html`, `academico.md`, `ds.css`, `img/academico.png` |
 | 2026-11-24 | M4-04 | #35 | Wireframe Design em HTML com o DS V1 (9 ecrãs) + captura (D-109, D-110) | `docs/04-ux-ui/wireframes/design.html`, `design.md`, `img/design.png` |
+| 2026-11-24 | M4-05 | #36 | Wireframe dos blocos comuns e do link mágico (8 ecrãs); logótipo corrigido nos 3 wireframes (D-111, D-112) | `docs/04-ux-ui/wireframes/blocos-comuns.html`, `blocos-comuns.md`, `img/*.png` |

diff --git a/docs/00-gestao/decisoes.md b/docs/00-gestao/decisoes.md
@@ -113,3 +113,5 @@
 | D-108 | 2026-11-24 | Barra de fases segmentada com "Fase N de 7" + nome da fase no telemóvel; nomes completos na página Projeto | M4-03 | Pontos com nomes | Assumida — confirmar no G2 |
 | D-109 | 2026-11-24 | No Design, a prova fica numa moldura neutra (Superfície + Borda); o Lilás só nos botões e estados, para não competir com a arte | M4-04 | Moldura na cor do módulo | Assumida — confirmar no G2 |
 | D-110 | 2026-11-24 | Sem rondas incluídas, a folha de revisão mostra as duas saídas (aprovar ou pedir revisão extra) em vez de bloquear | RN-36, M4-04 | Desativar o botão | Assumida — confirmar no G2 |
+| D-111 | 2026-11-24 | Tokens da marca para login, link mágico e admin (`data-service="brand"`): primária `#8B7CF6` (DS V1); suave `#C9C2FB`, tinta `#1C1838`, sobre `#0B0F17` derivados (AA verificado) | M4-05 | Usar os tokens do Design | Assumida — confirmar no G2 |
+| D-112 | 2026-11-24 | Nos wireframes, o logótipo é o "G" em arco com ponto e "Frela" em gradiente (ficha R2); o ícone anterior parecia o "G" da Google. Na M5 usa-se `components/BrandMark.tsx` | Revisão M4-05 | — | Aprovada (correção) |

diff --git a/docs/04-ux-ui/README.md b/docs/04-ux-ui/README.md
@@ -7,4 +7,4 @@
 | [`fluxo-telas.md`](fluxo-telas.md) | M4-02 (#33) | 35 telas (TEL-01…TEL-59), variações por serviço, fluxos de entrada, Académico, Design, Tech e admin |
 | [`wireframes/academico.md`](wireframes/academico.md) | M4-03 (#34) | Académico: 4 estados da Visão geral, Projeto, 3 folhas, computador — [`academico.html`](wireframes/academico.html), [`ds.css`](wireframes/ds.css) |
 | [`wireframes/design.md`](wireframes/design.md) | M4-04 (#35) | Design: 3 estados da Visão geral, galeria, comparar, pedir revisão, aprovar arte, sem rondas, computador — [`design.html`](wireframes/design.html) |
-| `wireframes/blocos-comuns.md` | M4-05 (#36) | Blocos comuns e ecrã do link mágico *(por fazer)* |
+| [`wireframes/blocos-comuns.md`](wireframes/blocos-comuns.md) | M4-05 (#36) | Entrar pelo link, link inválido, gerar link (admin), pagamentos, ficheiros, enviar, mensagens, projetos — [`blocos-comuns.html`](wireframes/blocos-comuns.html) |
